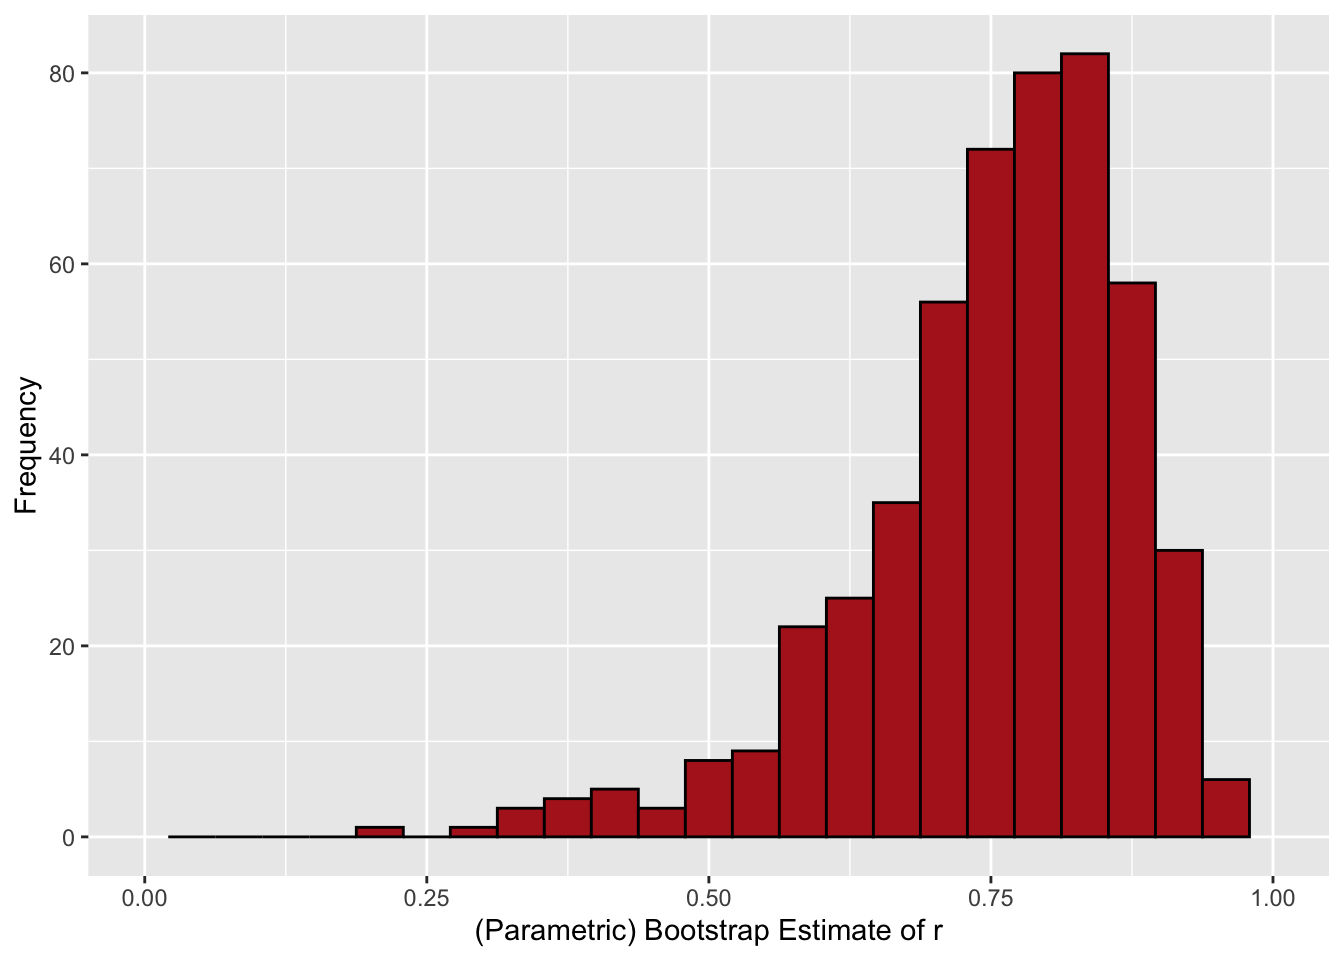
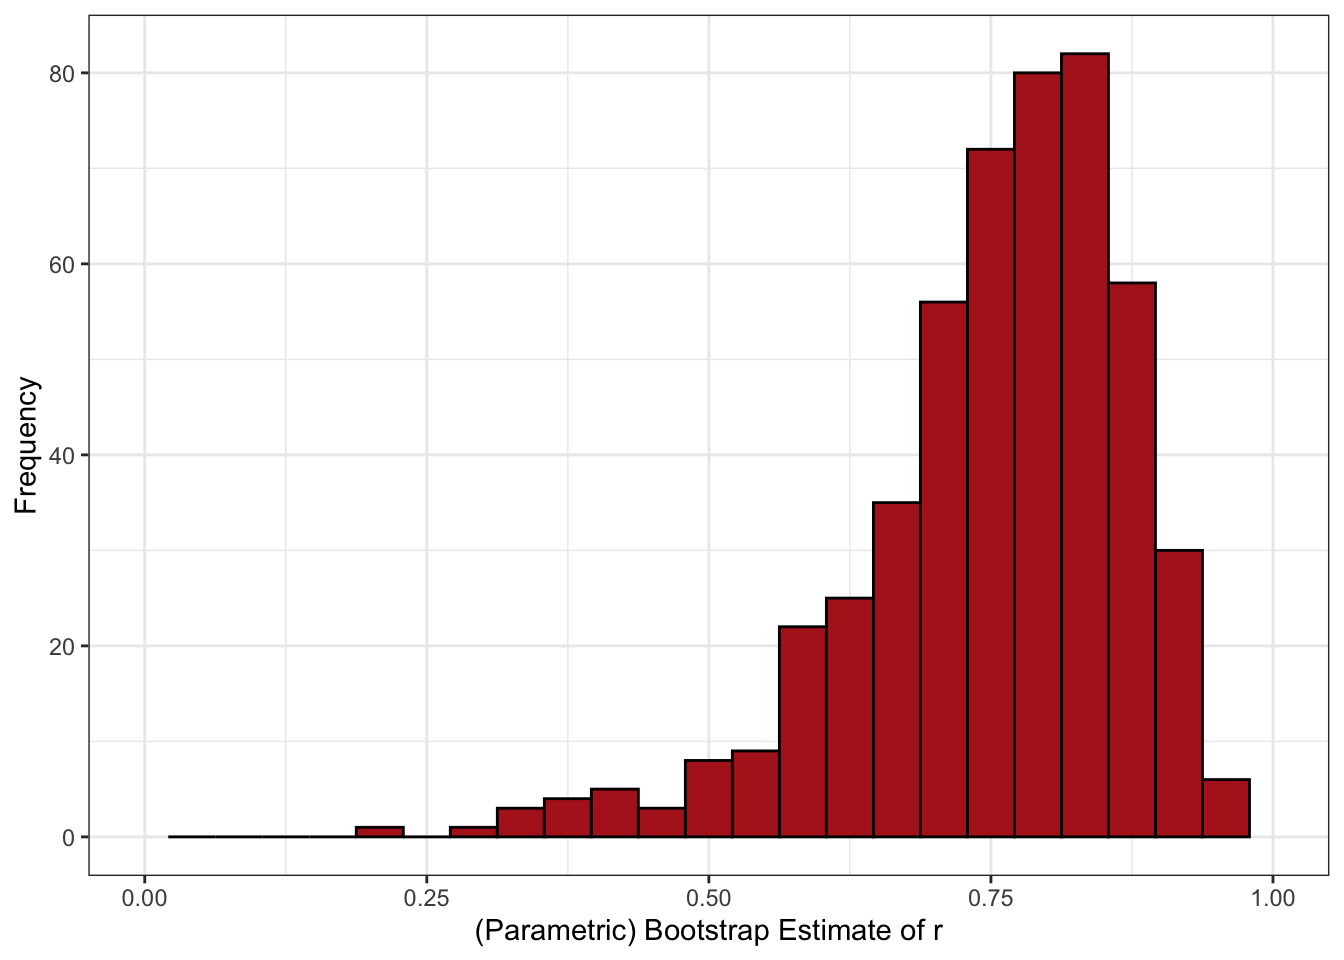
Cleaned up a few things in the markup. (#4)

diff --git a/docs/index.html b/docs/index.html
@@ -363,7 +363,7 @@ t = \frac{r}{SE_r} = \frac{0.776}{0.175} = 4.434
 <h2 class="anchored" data-anchor-id="bootstrap-confidence-intervals">Bootstrap Confidence Intervals</h2>
 <p>Recall that the usual formula for estimating a confidence around a statistic <span class="math inline">\(\theta\)</span> is something like:</p>
 <p><span class="math display">\[
-\text{95% CI} = \theta \pm t_{df,1-\alpha/2} SE_{\theta}
+\text{95\% CI} = \theta \pm t_{df,1-\alpha/2} SE_{\theta}
 \]</span></p>
 <p>We saw that using the textbook standard error estimate for a correlation led us astray because we ended up with an interval outside of the range of plausible values. There are a variety of alternative approaches to calculating confidence intervals based on the bootstrap. We’ll walk through the ones most commonly output by software and discuss how they are calculated.</p>
 </section>
@@ -459,7 +459,7 @@ t = \frac{\tilde{\theta} - \hat{\theta}}{\widehat{SE}_{\hat{\theta}}}
 <p>We created a bootstrap distribution of t-statistics and find that the 2.5th and 97.5th percentiles are 9.673 and -1.669, respectively. Substituting into the formula:</p>
 <p><span class="math display">\[
 \begin{align}
-\text{9\5% CI} &amp;= [\hat{\theta} - sq_{1-\alpha/2}, \hat{\theta} - sq_{\alpha/2}] \\
+\text{95\% CI} &amp;= [\hat{\theta} - sq_{1-\alpha/2}, \hat{\theta} - sq_{\alpha/2}] \\
                &amp;= [0.776 - 0.144 \times 9.673, 0.776 - 0.144 \times -1.669] \\
                &amp;= [-0.615,1.016]
 \end{align}
@@ -602,7 +602,6 @@ Calculations and Intervals on Original Scale</code></pre>
 <p>where <span class="math inline">\(\alpha\)</span> is our Type-I error rate, usually .05.</p>
 <p>Our confidence limits are:</p>
 <p><span class="math display">\[
-\\
 95\% \text{ CI} = [\hat{\theta}^{*(\alpha_1)}, \hat{\theta}^{*(\alpha_2)}]
 \]</span></p>
 <p>Based on the formulas above, it should be obvious that <span class="math inline">\(a_1\)</span> and <span class="math inline">\(a_2\)</span> reduces to the percentile intervals when the bias and acceleration terms are zero. The bias and acceleration corrections change the percentiles we use to establish our limits.</p>

diff --git a/README.md b/README.md
@@ -1,2 +1,1 @@
-# bootstrap
-Slides for explaining bootstrap confidence intervals
+This repo provides a tutorial for understanding the output from R's `boot` package's functions for bootstrapping. The rendered tutorial can be viewed here: https://jeralbri.github.io/bootstrap/
